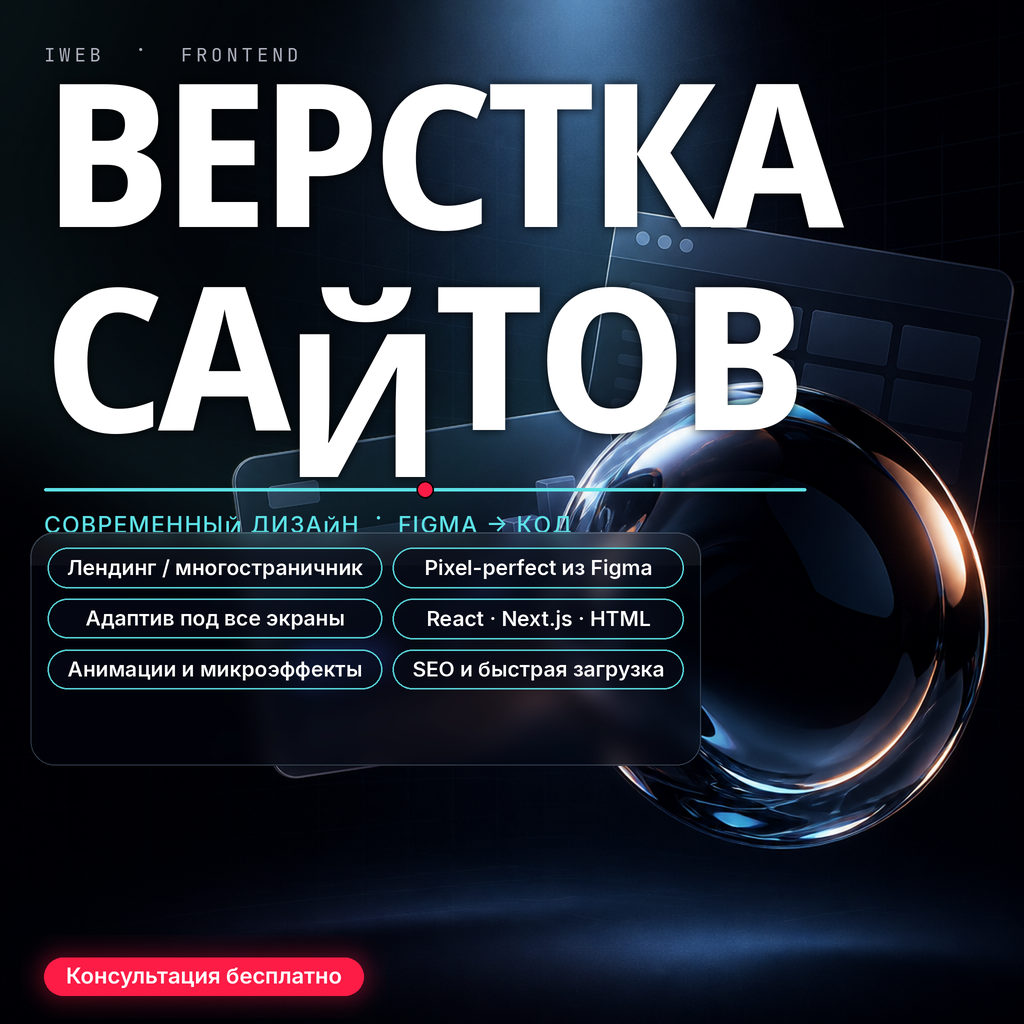
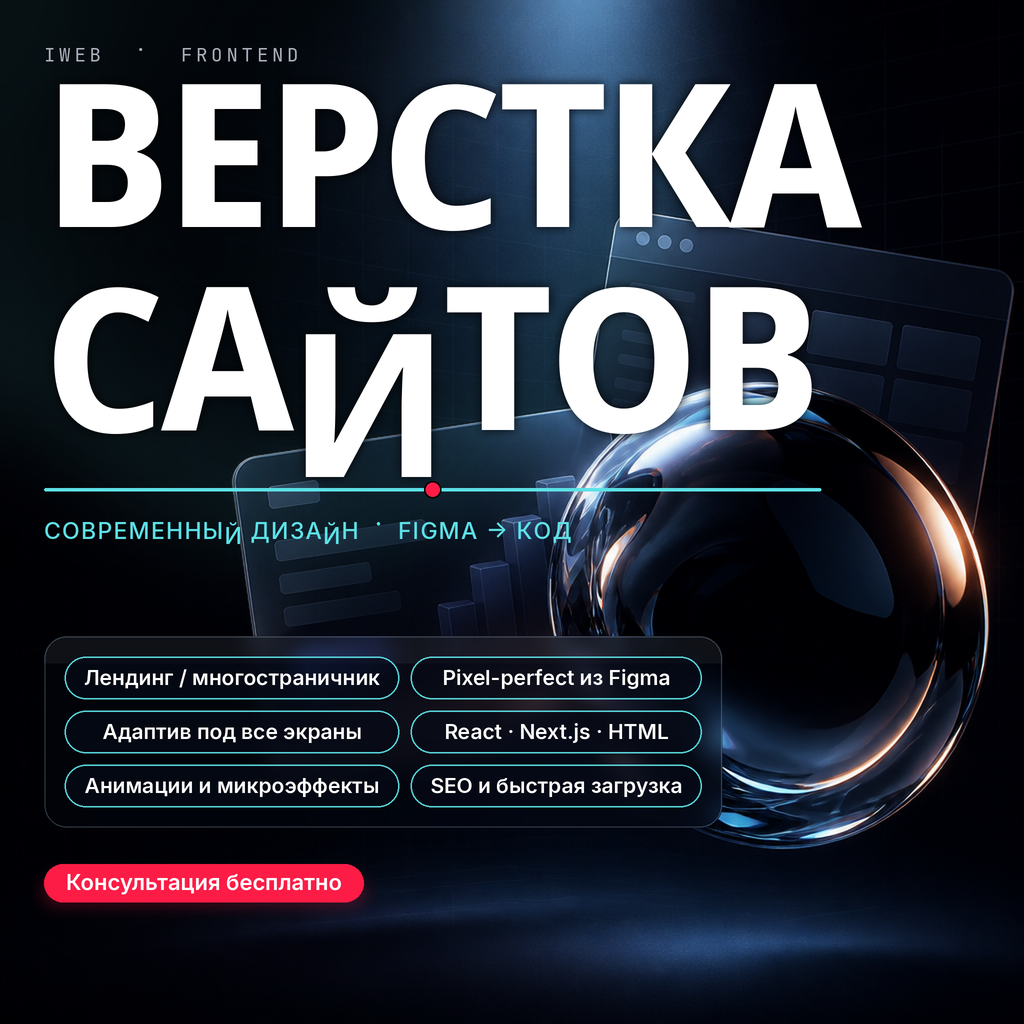
Fix glass block spacing on the layout Avito card.
Move the pill panel below the subtitle, hug the pills with even padding,
and keep a consistent gap before the CTA so nothing looks stuck or floating.

diff --git a/ads/layout/compose.py b/ads/layout/compose.py
@@ -137,33 +137,33 @@ def make_glass(
     return Image.alpha_composite(out, edge)
 
 
+def pill_text_size(fnt: ImageFont.FreeTypeFont, text: str) -> tuple[int, int]:
+    tw = int(round(fnt.getlength(text)))
+    box = fnt.getbbox(text, anchor="lt")
+    th = box[3] - box[1]
+    return tw, th
+
+
 def draw_pill(
     canvas: Image.Image,
     xy: tuple[int, int],
     text: str,
     fnt: ImageFont.FreeTypeFont,
-    min_w: int,
-    pad_x: int = 40,
-    pad_y: int = 22,
-) -> tuple[int, int]:
-    dummy = ImageDraw.Draw(Image.new("RGBA", (1, 1)))
-    bbox = dummy.textbbox((0, 0), text, font=fnt)
-    tw, th = bbox[2] - bbox[0], bbox[3] - bbox[1]
-    w = max(min_w, tw + pad_x * 2)
-    h = th + pad_y * 2
+    w: int,
+    h: int,
+) -> None:
     x, y = xy
     pill = Image.new("RGBA", (w, h), (0, 0, 0, 0))
     pd = ImageDraw.Draw(pill)
     pd.rounded_rectangle(
         (1, 1, w - 2, h - 2),
         radius=h // 2,
-        fill=(6, 10, 22, 155),
+        fill=(6, 10, 22, 170),
         outline=CYAN_LINE,
         width=3,
     )
     pd.text((w / 2, h / 2 - 1), text, font=fnt, fill=WHITE, anchor="mm")
     canvas.alpha_composite(pill, (x, y))
-    return w, h
 
 
 def left_vignette(size: int) -> Image.Image:
@@ -208,7 +208,7 @@ def compose() -> Image.Image:
     f_cta = font(FONT_UI, 44)
 
     left = 88
-    tracking_display = -0.035
+    tracking_display = -0.02
 
     # Width guard: shrink display size if the longer word would clip.
     longest = max(
@@ -240,7 +240,7 @@ def compose() -> Image.Image:
     draw.ellipse((dot_cx - dot_r - 3, dot_cy - dot_r - 3, dot_cx + dot_r + 3, dot_cy + dot_r + 3), fill=(0, 0, 0, 200))
     draw.ellipse((dot_cx - dot_r, dot_cy - dot_r, dot_cx + dot_r, dot_cy + dot_r), fill=CRIMSON)
 
-    sub_y = rule_y + 56
+    sub_y = rule_y + 68
     draw_tracked(
         draw,
         (left, sub_y),
@@ -250,72 +250,88 @@ def compose() -> Image.Image:
         tracking=0.055,
     )
 
-    dummy = ImageDraw.Draw(Image.new("RGBA", (1, 1)))
-    pad_x, pad_y = 40, 22
-    gap_x, gap_y = 18, 18
-    col_ws = [0, 0]
-    pill_h = 0
+    # Tight vertical rhythm: same left edge, equal pill cells, glass hugs content.
+    pad_x, pad_y = 40, 24
+    gap_x, gap_y = 20, 20
+    panel_pad_x, panel_pad_y = 40, 40
+    gap_sub_to_glass = 176  # clearly below the subtitle, not stuck to it
+    gap_glass_to_cta = 72
+
+    max_th = 0
+    col_tw = [0, 0]
     for left_t, right_t in PILLS:
         for col, t in enumerate((left_t, right_t)):
-            bbox = dummy.textbbox((0, 0), t, font=f_pill)
-            tw, th = bbox[2] - bbox[0], bbox[3] - bbox[1]
-            col_ws[col] = max(col_ws[col], tw + pad_x * 2)
-            pill_h = max(pill_h, th + pad_y * 2)
-
-    inner_w = col_ws[0] + gap_x + col_ws[1]
+            tw, th = pill_text_size(f_pill, t)
+            col_tw[col] = max(col_tw[col], tw)
+            max_th = max(max_th, th)
+    col_w = [tw + pad_x * 2 for tw in col_tw]
+    pill_h = max_th + pad_y * 2
+    inner_w = col_w[0] + gap_x + col_w[1]
     inner_h = pill_h * 3 + gap_y * 2
-    panel_pad_x, panel_pad_y = 34, 30
-    pills_origin_x = left + 6
-    pills_origin_y = sub_y + int(f_sub.size * 1.35)
+
+    sub_box = f_sub.getbbox("СОВРЕМЕННЫЙ ДИЗАЙН  ·  FIGMA → КОД", anchor="lt")
+    sub_h = sub_box[3] - sub_box[1]
+    panel_x0 = left
+    panel_y0 = sub_y + sub_h + gap_sub_to_glass
+    panel_x1 = panel_x0 + panel_pad_x * 2 + inner_w
+    panel_y1 = panel_y0 + panel_pad_y * 2 + inner_h
+    panel = tuple(int(round(v)) for v in (panel_x0, panel_y0, panel_x1, panel_y1))
+    panel_x0, panel_y0, panel_x1, panel_y1 = panel
+
+    pills_origin_x = panel_x0 + panel_pad_x
+    pills_origin_y = panel_y0 + panel_pad_y
 
     cta = "Консультация бесплатно"
-    cta_bbox = dummy.textbbox((0, 0), cta, font=f_cta)
-    cta_tw, cta_th = cta_bbox[2] - cta_bbox[0], cta_bbox[3] - cta_bbox[1]
+    cta_tw = int(round(f_cta.getlength(cta)))
+    cta_box = f_cta.getbbox(cta, anchor="lt")
+    cta_th = cta_box[3] - cta_box[1]
     cta_h = cta_th + 36
     cta_w = cta_tw + 88
-    bottom_pad = 56
     cta_x = left
-    cta_y = SIZE - bottom_pad - cta_h
+    cta_y = panel_y1 + gap_glass_to_cta
+    if cta_y + cta_h > SIZE - 40:
+        overflow = cta_y + cta_h - (SIZE - 40)
+        panel_y0 -= overflow
+        panel_y1 -= overflow
+        pills_origin_y -= overflow
+        cta_y -= overflow
+        panel = (panel_x0, panel_y0, panel_x1, panel_y1)
 
-    # Glass hugs the pills, then stretches down toward the CTA so the footer
-    # has weight without covering the orb on the far right.
-    panel = (
-        pills_origin_x - panel_pad_x,
-        pills_origin_y - panel_pad_y,
-        min(pills_origin_x + inner_w + panel_pad_x, int(SIZE * 0.74)),
-        min(cta_y - 24, pills_origin_y + inner_h + panel_pad_y + 120),
-    )
-
-    glass = make_glass(canvas, panel, radius=48, tint=(5, 9, 22, 64), blur=22)
+    glass = make_glass(canvas, panel, radius=44, tint=(5, 9, 22, 72), blur=22)
     canvas.alpha_composite(glass, (panel[0], panel[1]))
 
     cy = pills_origin_y
     for left_t, right_t in PILLS:
-        draw_pill(canvas, (pills_origin_x, cy), left_t, f_pill, min_w=col_ws[0], pad_x=pad_x, pad_y=pad_y)
-        draw_pill(
-            canvas,
-            (pills_origin_x + col_ws[0] + gap_x, cy),
-            right_t,
-            f_pill,
-            min_w=col_ws[1],
-            pad_x=pad_x,
-            pad_y=pad_y,
-        )
+        draw_pill(canvas, (pills_origin_x, cy), left_t, f_pill, col_w[0], pill_h)
+        draw_pill(canvas, (pills_origin_x + col_w[0] + gap_x, cy), right_t, f_pill, col_w[1], pill_h)
         cy += pill_h + gap_y
 
-    glow = Image.new("RGBA", (cta_w + 90, cta_h + 90), (0, 0, 0, 0))
+    glow = Image.new("RGBA", (cta_w + 64, cta_h + 48), (0, 0, 0, 0))
     ImageDraw.Draw(glow).rounded_rectangle(
-        (20, 20, cta_w + 69, cta_h + 69),
-        radius=cta_h // 2 + 12,
-        fill=(252, 28, 70, 80),
+        (16, 20, cta_w + 47, cta_h + 27),
+        radius=cta_h // 2 + 8,
+        fill=(252, 28, 70, 55),
     )
-    canvas.alpha_composite(glow.filter(ImageFilter.GaussianBlur(24)), (cta_x - 45, cta_y - 45))
+    canvas.alpha_composite(glow.filter(ImageFilter.GaussianBlur(16)), (cta_x - 32, cta_y - 8))
 
     btn = Image.new("RGBA", (cta_w, cta_h), (0, 0, 0, 0))
     bd = ImageDraw.Draw(btn)
     bd.rounded_rectangle((0, 0, cta_w - 1, cta_h - 1), radius=cta_h // 2, fill=CRIMSON)
     bd.text((cta_w / 2, cta_h / 2 - 2), cta, font=f_cta, fill=WHITE, anchor="mm")
     canvas.alpha_composite(btn, (cta_x, cta_y))
+
+    print(
+        "layout",
+        {
+            "sub_bottom": sub_y + sub_h,
+            "glass": panel,
+            "gap_sub_glass": panel_y0 - (sub_y + sub_h),
+            "pills": (pills_origin_x, pills_origin_y, col_w, pill_h),
+            "cta": (cta_x, cta_y, cta_w, cta_h),
+            "gap_glass_cta": cta_y - panel_y1,
+            "bottom_pad": SIZE - (cta_y + cta_h),
+        },
+    )
 
     return canvas
 
